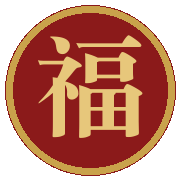
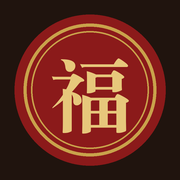
Update navigation functionality and styles in index.html
- Adjusted margin-top for the #menu section to improve layout.
- Enhanced scroll behavior for navigation links, ensuring smooth scrolling to sections.
- Added event listener for navigation clicks to facilitate section scrolling.
- Updated apple-touch-icon and Open Graph image for better representation.

diff --git a/index.html b/index.html
@@ -128,7 +128,7 @@
     }
     #menu {
       padding: 68px 0 76px !important;
-      margin-top: 16px !important;
+      margin-top: 0 !important;
     }
     #menu > div {
       max-width: 1120px !important;
@@ -543,14 +543,30 @@ class Component extends DCLogic {
     };
     // wait a tick so refs/DOM are settled
     setTimeout(run, 60);
-    setTimeout(() => {
-      if (!window.location.hash) return;
-      const id = window.location.hash.slice(1);
+    const scrollToSection = (id, updateHash = true) => {
       const target = document.getElementById(id);
       if (!target) return;
       target.style.opacity = '1';
       target.style.transform = 'none';
-      target.scrollIntoView({ block: 'start' });
+      const nav = document.querySelector('nav[data-nav]');
+      const navH = nav ? nav.getBoundingClientRect().height : 0;
+      const top = target.getBoundingClientRect().top + window.pageYOffset - navH - 1;
+      window.scrollTo({ top: Math.max(0, top), behavior: updateHash ? 'smooth' : 'auto' });
+      if (updateHash) history.pushState(null, '', '#' + id);
+    };
+    this._onNavClick = (event) => {
+      const link = event.target.closest && event.target.closest('nav[data-nav] a[href^="#"]');
+      if (!link) return;
+      const id = link.getAttribute('href').slice(1);
+      if (!id) return;
+      event.preventDefault();
+      scrollToSection(id);
+    };
+    document.addEventListener('click', this._onNavClick);
+    setTimeout(() => {
+      if (!window.location.hash) return;
+      const id = window.location.hash.slice(1);
+      scrollToSection(id, false);
     }, 180);
     setTimeout(() => {
       const visible = document.querySelectorAll('[data-reveal]');
@@ -567,6 +583,7 @@ class Component extends DCLogic {
   componentWillUnmount() {
     if (this._raf) cancelAnimationFrame(this._raf);
     if (this._onResize) window.removeEventListener('resize', this._onResize);
+    if (this._onNavClick) document.removeEventListener('click', this._onNavClick);
   }
 
   get categories() {
